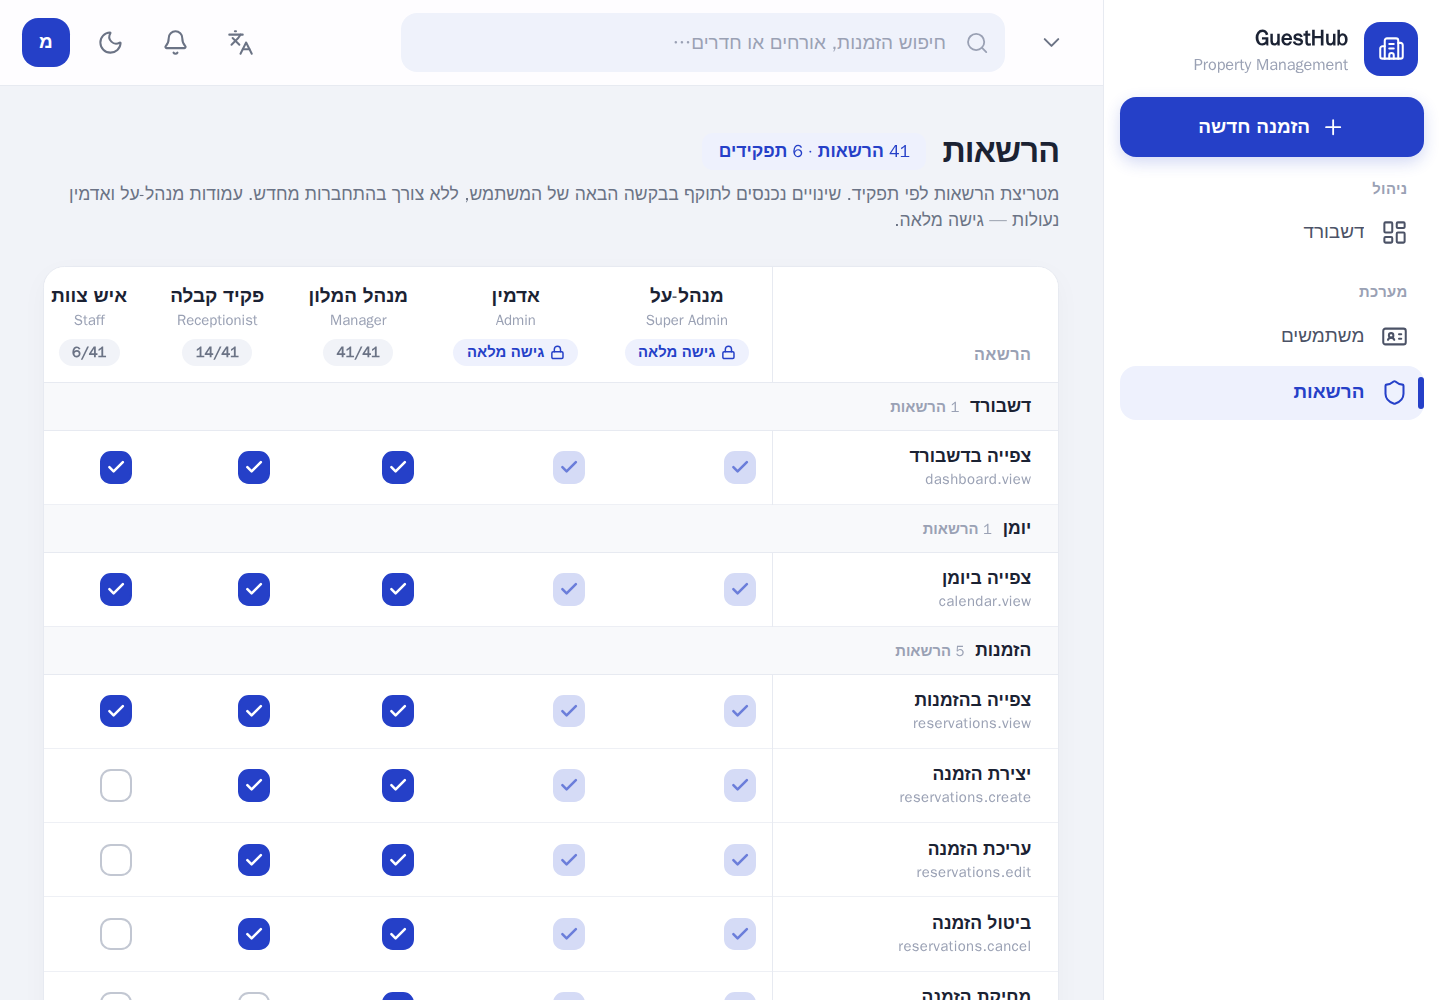
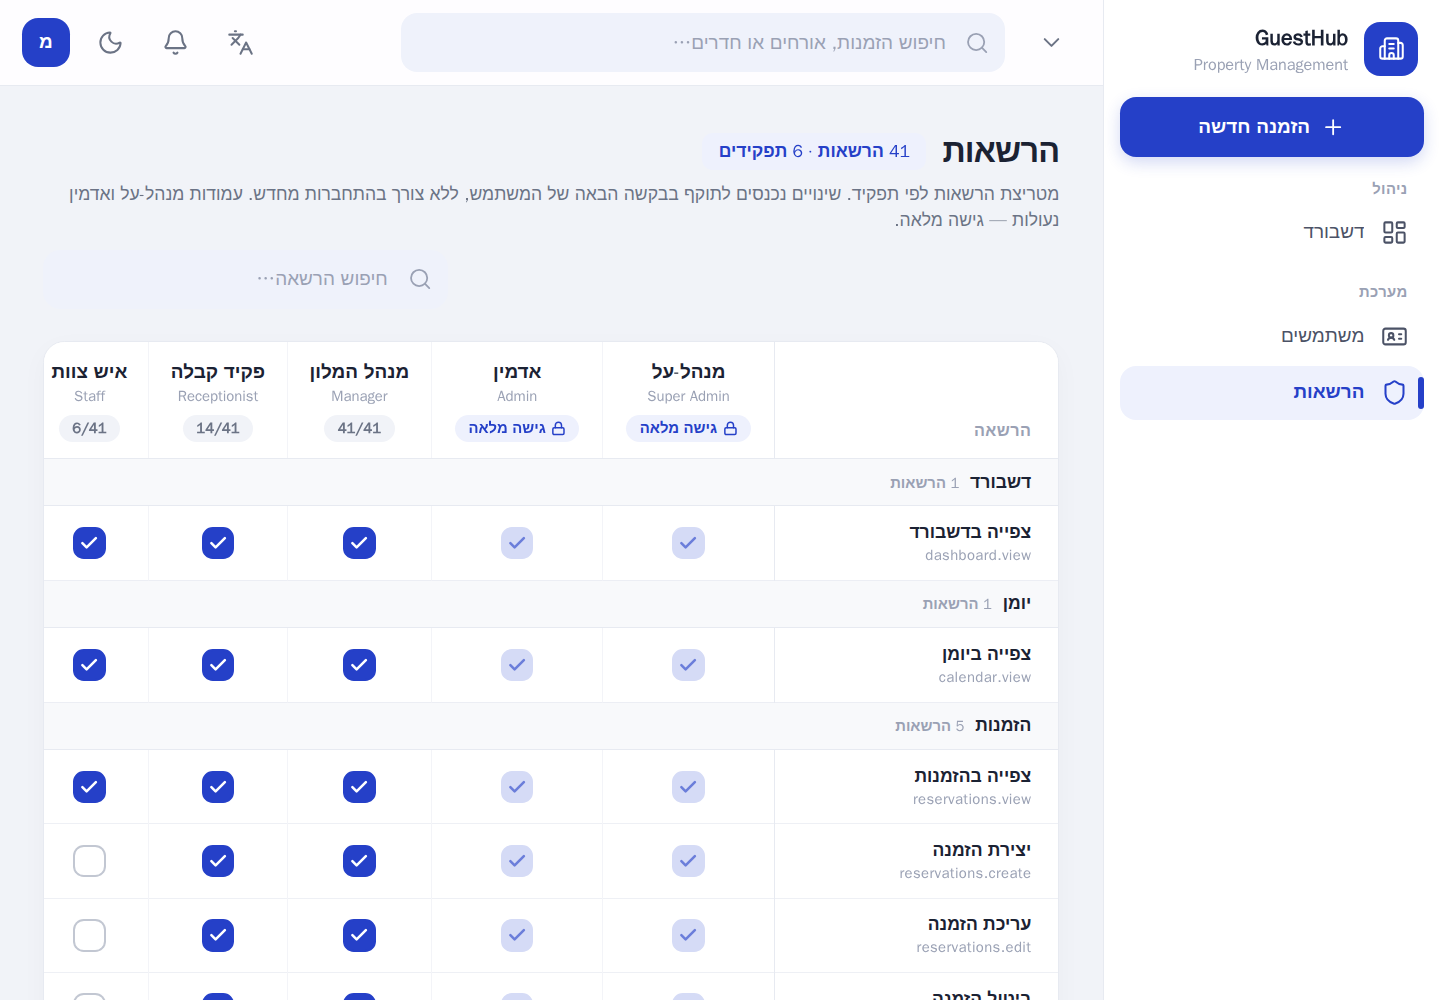
style(permissions): center matrix cells, add column grid lines and client-side search
Alignment pass on the restyle — still UI-only, no action/guard/query change.
Checkbox buttons were block-level (display:grid) so td text-center never
centered them; mx-auto now locks header, count chip, and every cell state
to one column axis (verified: identical computed centers). Soft vertical
separators (border-e line/50, explicit per-side colors to avoid the
logical/physical border-color cascade trap) split the role columns and
the permission column for scanability. Adds the reference's חיפוש הרשאה…
field — pure client filter over the already-loaded catalog by Hebrew
name or key, reusing the staff-screen field pattern, with an empty-state
row; no server round-trip. Live-verified: search by name/key/none,
toggle round-trip persists+reverts, locked columns stay disabled,
sticky header intact. tsc/eslint/build/check-guards pass.

diff --git a/src/app/(dashboard)/permissions/PermissionsMatrix.tsx b/src/app/(dashboard)/permissions/PermissionsMatrix.tsx
@@ -39,11 +39,20 @@ export function PermissionsMatrix({
     () => new Set(grants.map((g) => `${g.role_id}:${g.permission_id}`)),
   );
   const [pending, setPending] = useState<Set<string>>(new Set());
+  const [q, setQ] = useState("");
   const [, startTransition] = useTransition();
 
   const groups = useMemo(() => {
+    // Client-only filter over the already-loaded catalog (name or key).
+    const nq = q.trim().toLowerCase();
     const byCat = new Map<string, Permission[]>();
     for (const p of permissions) {
+      if (
+        nq &&
+        !(p.description ?? "").toLowerCase().includes(nq) &&
+        !p.key.toLowerCase().includes(nq)
+      )
+        continue;
       const cat = p.category ?? "אחר";
       if (!byCat.has(cat)) byCat.set(cat, []);
       byCat.get(cat)!.push(p);
@@ -53,7 +62,7 @@ export function PermissionsMatrix({
     return [...byCat.entries()].sort(
       (a, b) => categoryIndex(a[0]) - categoryIndex(b[0]),
     );
-  }, [permissions]);
+  }, [permissions, q]);
 
   const countByRole = useMemo(() => {
     const counts = new Map<string, number>();
@@ -100,17 +109,33 @@ export function PermissionsMatrix({
 
   return (
     <div className="flex h-full flex-col gap-6 p-6 lg:p-8">
-      <div className="flex flex-none flex-col gap-1.5">
-        <div className="flex flex-wrap items-center gap-3">
-          <h1 className="text-2xl font-extrabold tracking-tight text-ink">הרשאות</h1>
-          <span className="rounded-lg bg-primary-050 px-3 py-1 text-[13px] font-bold text-primary">
-            {permissions.length} הרשאות · {roles.length} תפקידים
-          </span>
+      <div className="flex flex-none flex-wrap items-center gap-3">
+        <div className="flex flex-col gap-1.5">
+          <div className="flex flex-wrap items-center gap-3">
+            <h1 className="text-2xl font-extrabold tracking-tight text-ink">הרשאות</h1>
+            <span className="rounded-lg bg-primary-050 px-3 py-1 text-[13px] font-bold text-primary">
+              {permissions.length} הרשאות · {roles.length} תפקידים
+            </span>
+          </div>
+          <p className="text-[13px] font-medium text-muted">
+            מטריצת הרשאות לפי תפקיד. שינויים נכנסים לתוקף בבקשה הבאה של המשתמש, ללא צורך
+            בהתחברות מחדש. עמודות מנהל-על ואדמין נעולות — גישה מלאה.
+          </p>
         </div>
-        <p className="text-[13px] font-medium text-muted">
-          מטריצת הרשאות לפי תפקיד. שינויים נכנסים לתוקף בבקשה הבאה של המשתמש, ללא צורך
-          בהתחברות מחדש. עמודות מנהל-על ואדמין נעולות — גישה מלאה.
-        </p>
+        <div className="relative ms-auto w-full sm:w-[300px]">
+          <Icon
+            name="search"
+            size={18}
+            className="pointer-events-none absolute start-0 top-1/2 ms-3 -translate-y-1/2 text-faint"
+          />
+          <input
+            value={q}
+            onChange={(e) => setQ(e.target.value)}
+            placeholder="חיפוש הרשאה…"
+            className="field h-11 min-h-0 ps-11 pe-4 text-sm"
+            aria-label="חיפוש הרשאה"
+          />
+        </div>
       </div>
 
       <div className="flex min-h-0 flex-1 flex-col overflow-hidden rounded-2xl border border-line bg-surface shadow-card">
@@ -124,7 +149,7 @@ export function PermissionsMatrix({
                 {roles.map((role) => (
                   <th
                     key={role.id}
-                    className="sticky top-0 z-20 border-b border-line bg-surface px-3 py-3 text-center"
+                    className="sticky top-0 z-20 border-b border-e border-b-line border-e-line/50 bg-surface px-3 py-3 text-center last:border-e-0"
                   >
                     <div className="flex flex-col items-center gap-1.5">
                       <div>
@@ -149,6 +174,16 @@ export function PermissionsMatrix({
               </tr>
             </thead>
             <tbody>
+              {groups.length === 0 ? (
+                <tr>
+                  <td
+                    colSpan={roles.length + 1}
+                    className="px-5 py-10 text-center text-sm font-medium text-muted"
+                  >
+                    אין הרשאות תואמות לחיפוש „{q.trim()}”
+                  </td>
+                </tr>
+              ) : null}
               {groups.map(([cat, perms]) => (
                 <CategoryGroup
                   key={cat}
@@ -176,7 +211,10 @@ export function PermissionsMatrix({
                         const editable = canUpdate && !isProtected;
                         const busy = pending.has(`${role.id}:${perm.id}`);
                         return (
-                          <td key={key} className="px-3 py-2.5 text-center">
+                          <td
+                            key={key}
+                            className="border-e border-e-line/50 px-3 py-2.5 text-center last:border-e-0"
+                          >
                             <Cell
                               on={on}
                               editable={editable}
@@ -280,7 +318,7 @@ function Cell({
       disabled={!editable || busy}
       onClick={onToggle}
       title={protectedCol ? "גישה מלאה — לקריאה בלבד" : editable ? "" : "אין הרשאת עריכה"}
-      className={`relative grid h-6 w-6 place-items-center rounded-lg border-[1.5px] transition-colors focus-visible:outline-none focus-visible:ring-2 focus-visible:ring-primary/40 focus-visible:ring-offset-1 ${
+      className={`relative mx-auto grid h-6 w-6 place-items-center rounded-lg border-[1.5px] transition-colors focus-visible:outline-none focus-visible:ring-2 focus-visible:ring-primary/40 focus-visible:ring-offset-1 ${
         on
           ? protectedCol
             ? "border-primary-100 bg-primary-100 text-primary/60"